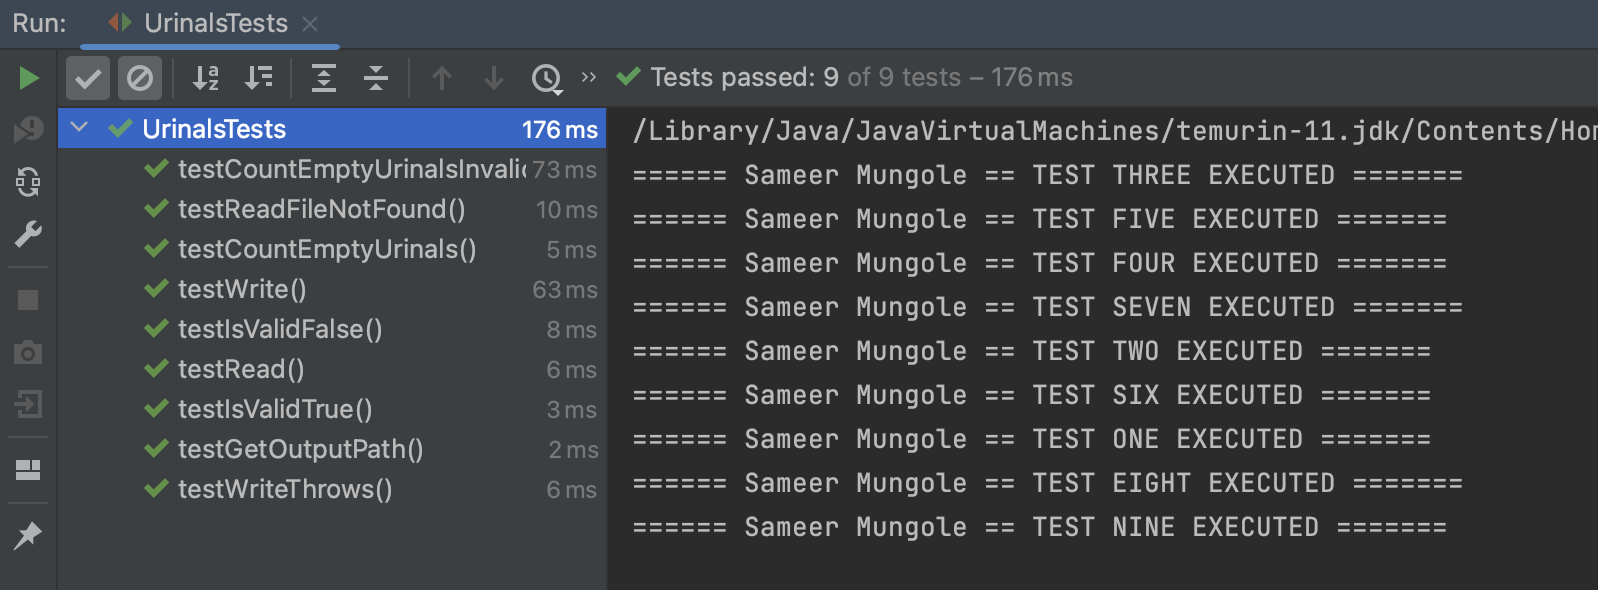
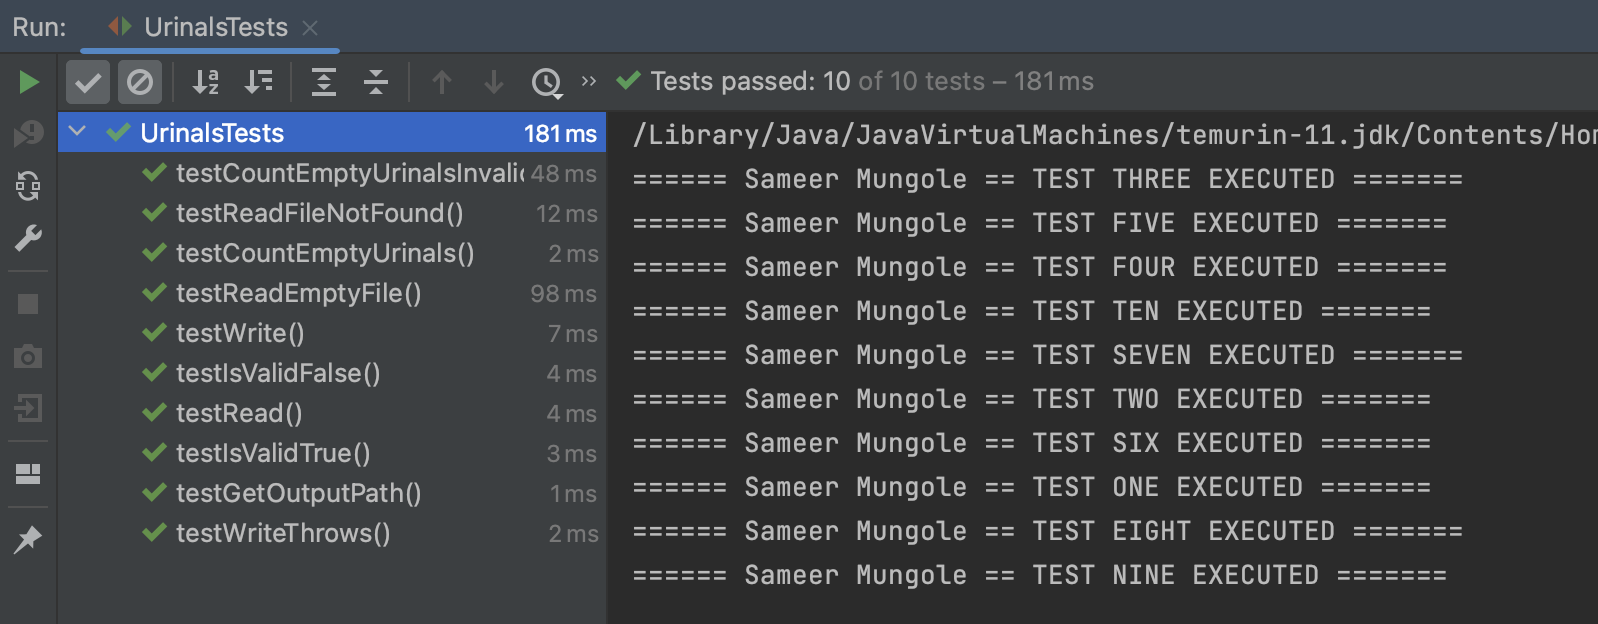
add test case for reading empty file

diff --git a/UrinalsTests.java b/UrinalsTests.java
@@ -115,6 +115,19 @@ public class UrinalsTests {
     }
 
     @Test
+    void testReadEmptyFile() {
+        System.out.println("====== Sameer Mungole == TEST TEN EXECUTED =======");
+
+        String fileName = "input/urinal_empty.dat";
+        try {
+            List<String> contents = urinals.read(fileName);
+            Assertions.assertTrue(contents.isEmpty());
+        } catch (FileNotFoundException e) {
+            fail("should not return FileNotFoundException");
+        }
+    }
+
+    @Test
     void testWriteThrows() {
         System.out.println("====== Sameer Mungole == TEST NINE EXECUTED =======");
 
